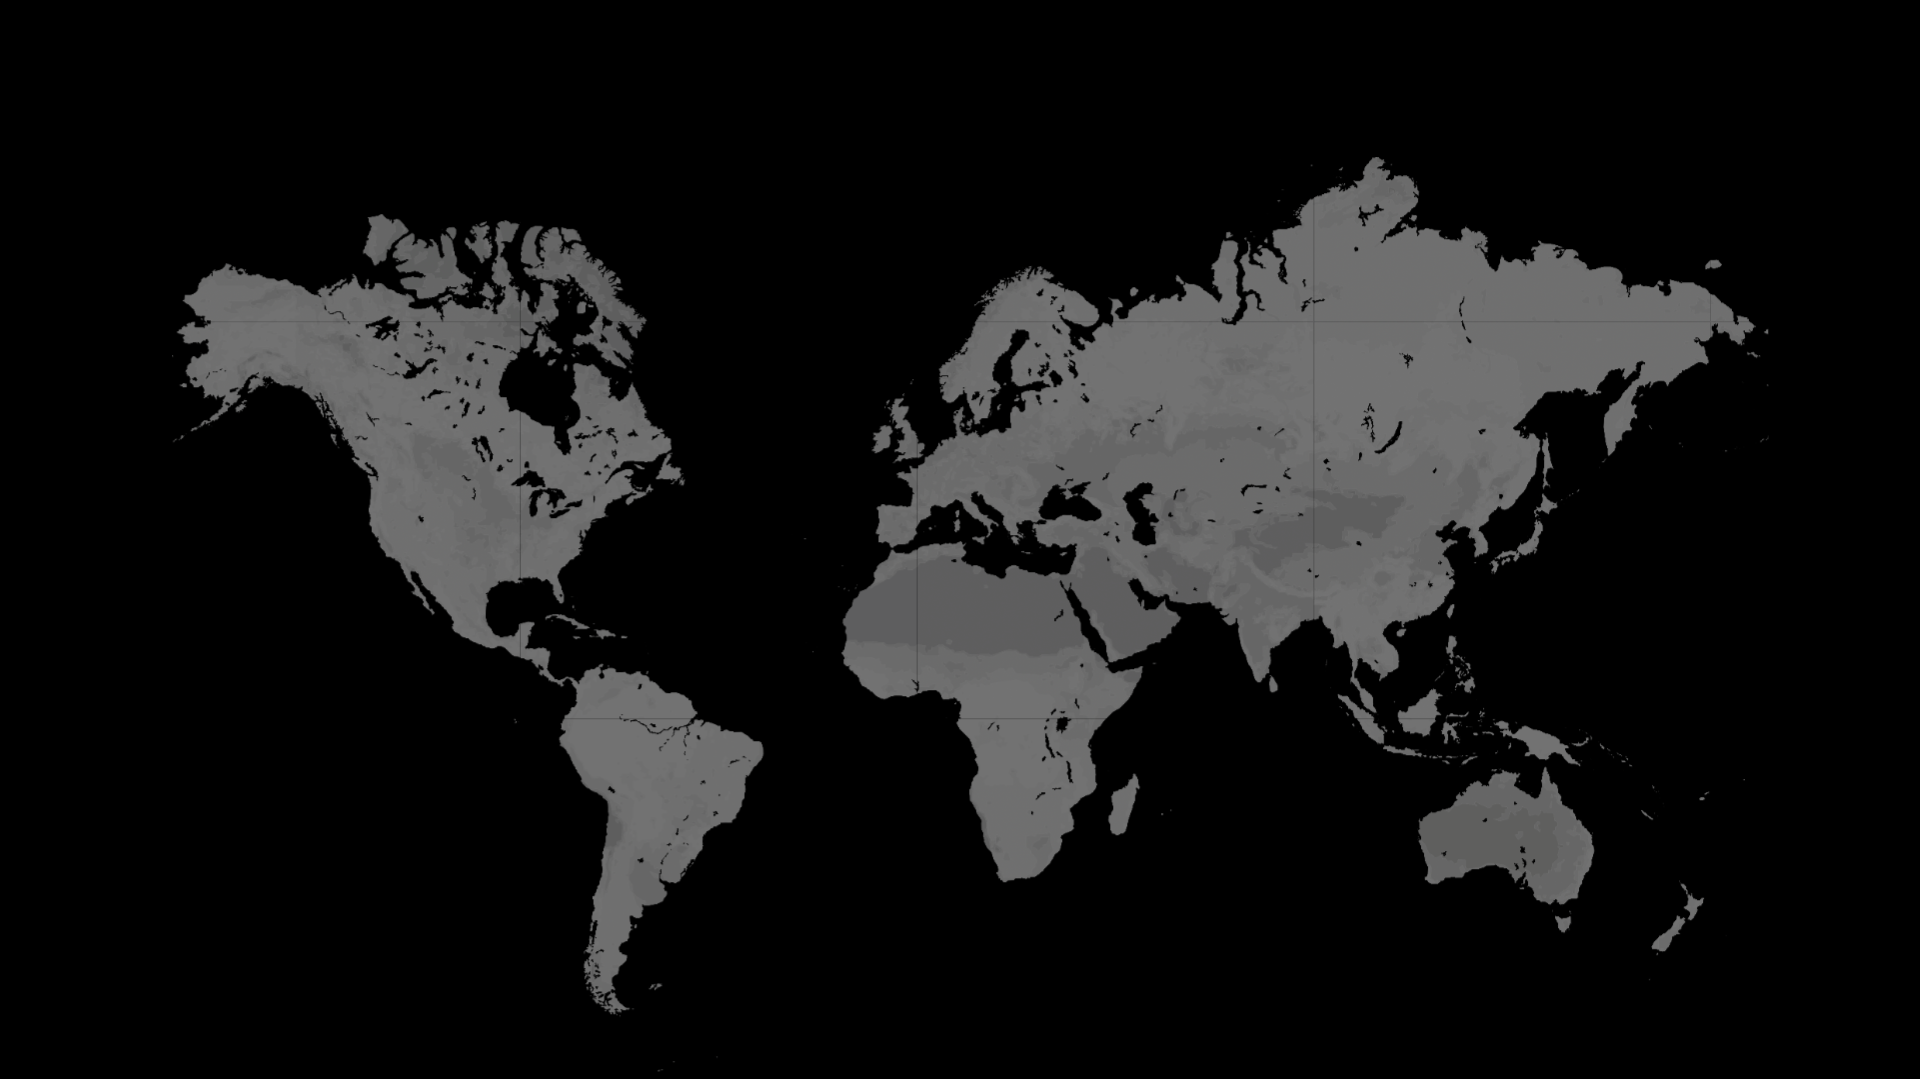
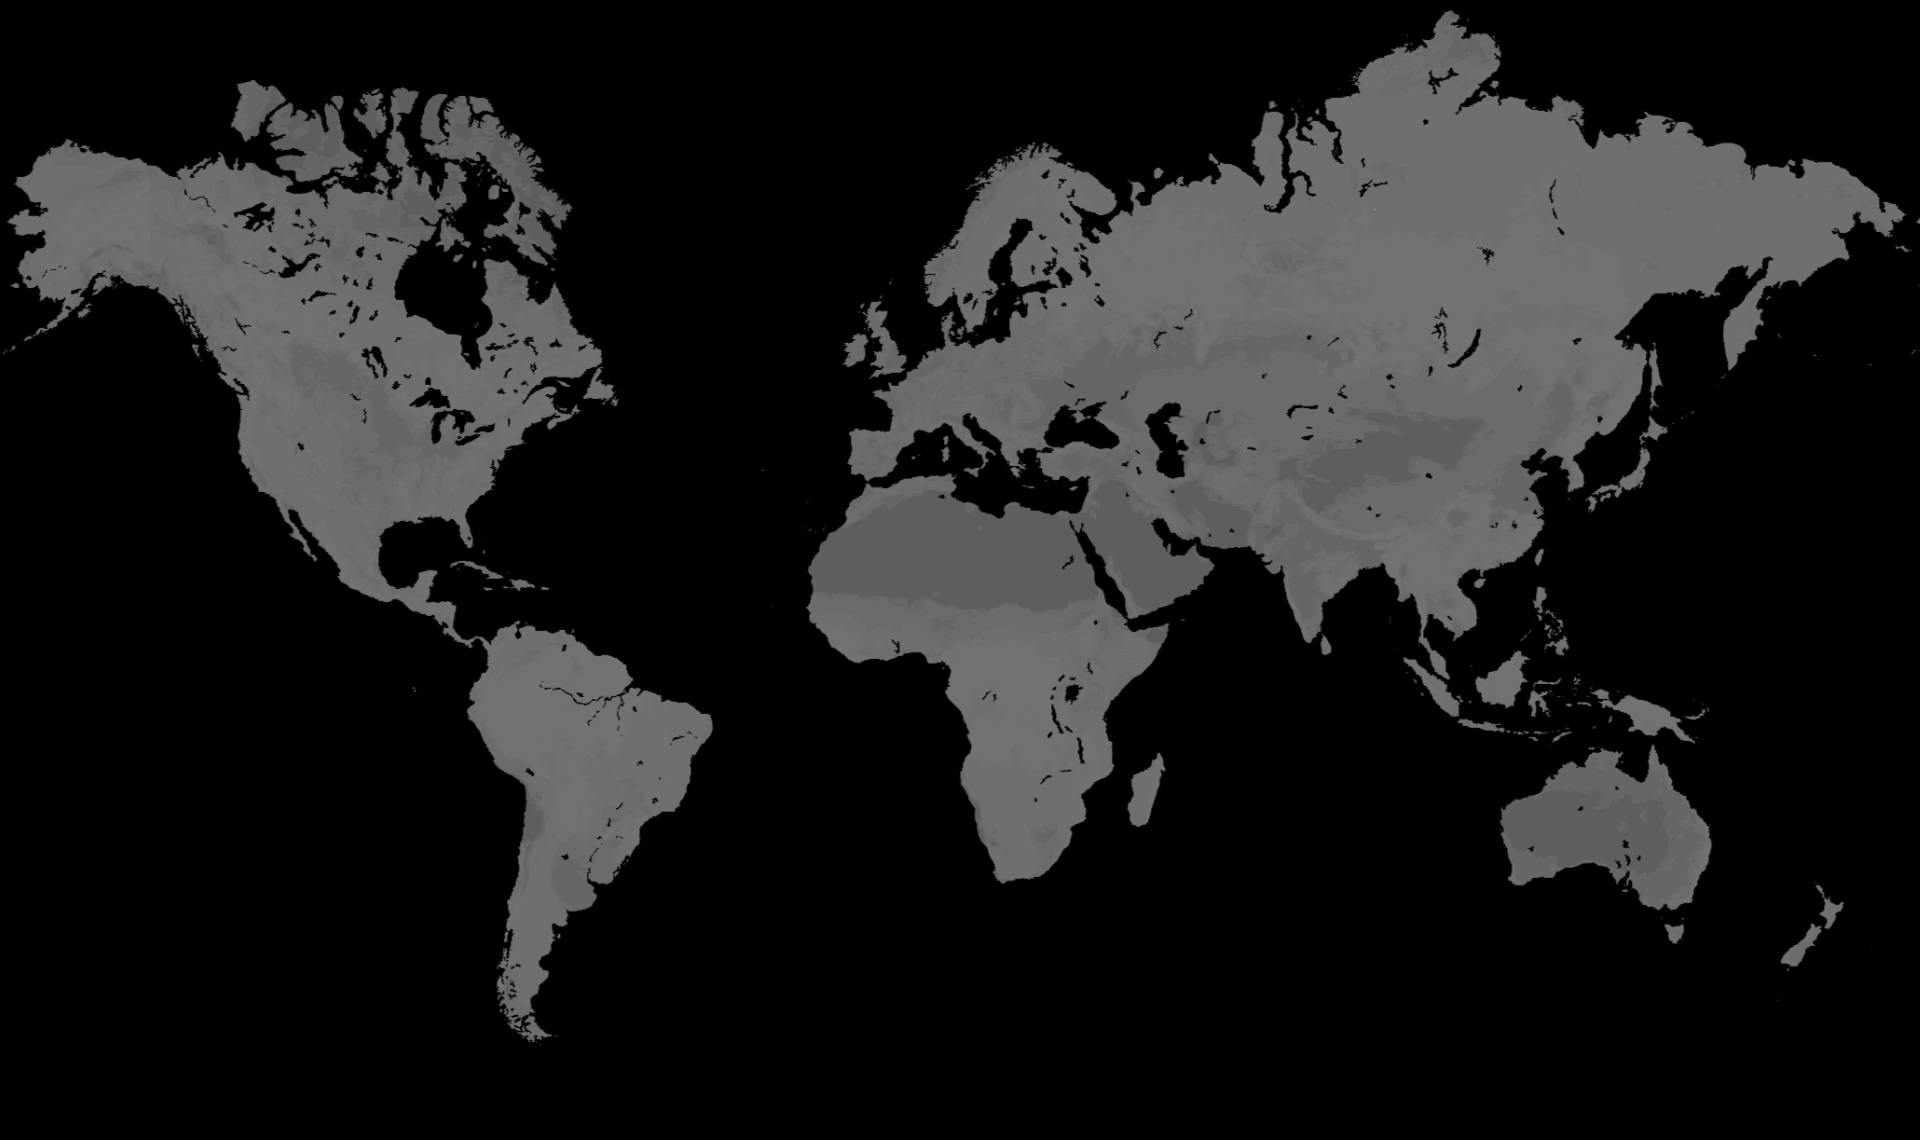
25.04.02 / KB

diff --git a/map_server/static/libs/css/index.css b/map_server/static/libs/css/index.css
@@ -82,7 +82,7 @@ body {
 }
 
 .subtitle {
-  color: #FCB00E; /* 파란색 강조 */
+  color: #fcb00e; /* 파란색 강조 */
   font-size: 2rem;
   font-weight: 600;
   margin-top: 8px;
@@ -130,17 +130,17 @@ body {
   transform: translate(-50%, -50%);
   overflow: hidden;
   background: rgb(0, 0, 0);
+  mix-blend-mode: plus-lighter; /* 경계선 생성 방지... */
+}
+
+.leaflet-container img.leaflet-tile {
+  mix-blend-mode: plus-lighter; /* 경계선 생성 방지... */
 }
 
 #map {
   width: 100%;
   height: 100%;
   background: rgb(0, 0, 0);
-}
-
-.leaflet-container {
-  background: transparent;
-  border-radius: 15px;
 }
 
 /* 스케일링 적용 */
@@ -546,11 +546,7 @@ td:nth-child(8) {
   }
 }
 
-
-
-
-
-/* ======================================================== */
+/* ============================================================================================ */
 
 /* 사이드바 내부 테이블 컨테이너 - 제목과 테이블 영역 분리 */
 .sidebar-table-container {
@@ -598,12 +594,12 @@ td:nth-child(8) {
 
 /* 테이블 헤더 스타일 - 투명 배경 */
 .sidebar-table th {
-  background-color: #fcb10e4f;
+  background-color: #fcb10e38;
   color: #ffffff;
   font-weight: 600;
   text-align: center;
-  padding: 8px 5px;
-  font-size: 0.95rem;
+  padding: 6px 5px;
+  font-size: 1rem;
   position: sticky;
   top: 0;
   z-index: 1;
@@ -617,7 +613,7 @@ td:nth-child(8) {
   border-bottom: 1px solid rgba(255, 255, 255, 0.1);
   overflow: hidden;
   text-overflow: ellipsis;
-  transition: background-color 0.2s;
+  transition: background-color 0.3s;
 }
 
 /* 호버 효과 */
@@ -628,30 +624,4 @@ td:nth-child(8) {
 /* 짝수 행에 약간의 배경색 */
 .sidebar-table tr:nth-child(even) td {
   background-color: rgba(255, 255, 255, 0.03);
-}
-
-/* 국기 이미지 스타일 */
-.country-flag {
-  width: 18px;
-  height: 13px;
-  vertical-align: middle;
-  margin-right: 6px;
-  border: 1px solid rgba(255, 255, 255, 0.2);
-  border-radius: 2px;
-}
-
-/* 공격 추이 화살표 스타일 */
-.trend-up {
-  color: #ff4d6d;
-  font-weight: bold;
-}
-
-.trend-down {
-  color: #4dff88;
-  font-weight: bold;
-}
-
-.trend-same {
-  color: #ffdd4d;
-  font-weight: bold;
 }

diff --git a/map_server/static/map.js b/map_server/static/map.js
@@ -17,7 +17,7 @@ var map = L.map("map", {
   center: [23.0, 12.0],
   zoom: 2,
   minZoom: 2,
-  maxZoom: 3,
+  maxZoom: 2,
   zoomControl: false,
   dragging: false,
   doubleClickZoom: false,
@@ -25,21 +25,19 @@ var map = L.map("map", {
   touchZoom: false,
   boxZoom: false,
   keyboard: false,
-  attributionControl: false, // 저작권 표시 컨트롤 비활성화
+  attributionControl: false
 });
 
 // 이미지 오버레이 코드
-/* */
 var imageUrl = "static/images/map/worldmap_2.png";
 var overlayLatLngBounds = L.latLngBounds([
-  [-60, -208],
-  [83, 228],
+  [-65, -169],
+  [78, 193],
 ]);
 var imageOverlay = L.imageOverlay(imageUrl, overlayLatLngBounds, {
   opacity: 1,
   interactive: true,
 }).addTo(map);
-
 
 // 전 세계 경계 (줌 레벨 2에서는 제한 X)
 var worldBounds = L.latLngBounds(L.latLng(45.0, 12.0), L.latLng(45.0, 12.0));
@@ -63,7 +61,7 @@ map.on("resize", function () {
 });
 
 // 타일 레이어 추가
-const tileUrl = "/static/images/map/mapbox_tiles_blue/{z}/{x}/{y}.png";
+const tileUrl = "/static/images/map/mapbox_tiles/{z}/{x}/{y}.png";
 L.tileLayer(tileUrl, {
   tileSize: 256,
   zoomOffset: 0,
@@ -169,7 +167,8 @@ function createFixedCircleEffect(svgId, color) {
   inCircle.setAttribute("cy", "40");
   inCircle.setAttribute("r", "12");
   inCircle.setAttribute("fill", color);
-  inCircle.setAttribute("fill-opacity", "0.6");
+  inCircle.setAttribute("fill-opacity", "0.5");
+  inCircle.setAttribute("filter", "url(#blurFilter)"); // 블러 필터 적용
   inCircle.classList.add("inner-circle");
   svg.appendChild(inCircle);
 
@@ -190,7 +189,7 @@ function createFixedCircleEffect(svgId, color) {
   function animateGrowing() {
     circle.animate(
       [
-        { r: "4", strokeOpacity: "1" },
+        { r: "6", strokeOpacity: "1" },
         { r: "30", strokeOpacity: "0" },
       ],
       {
